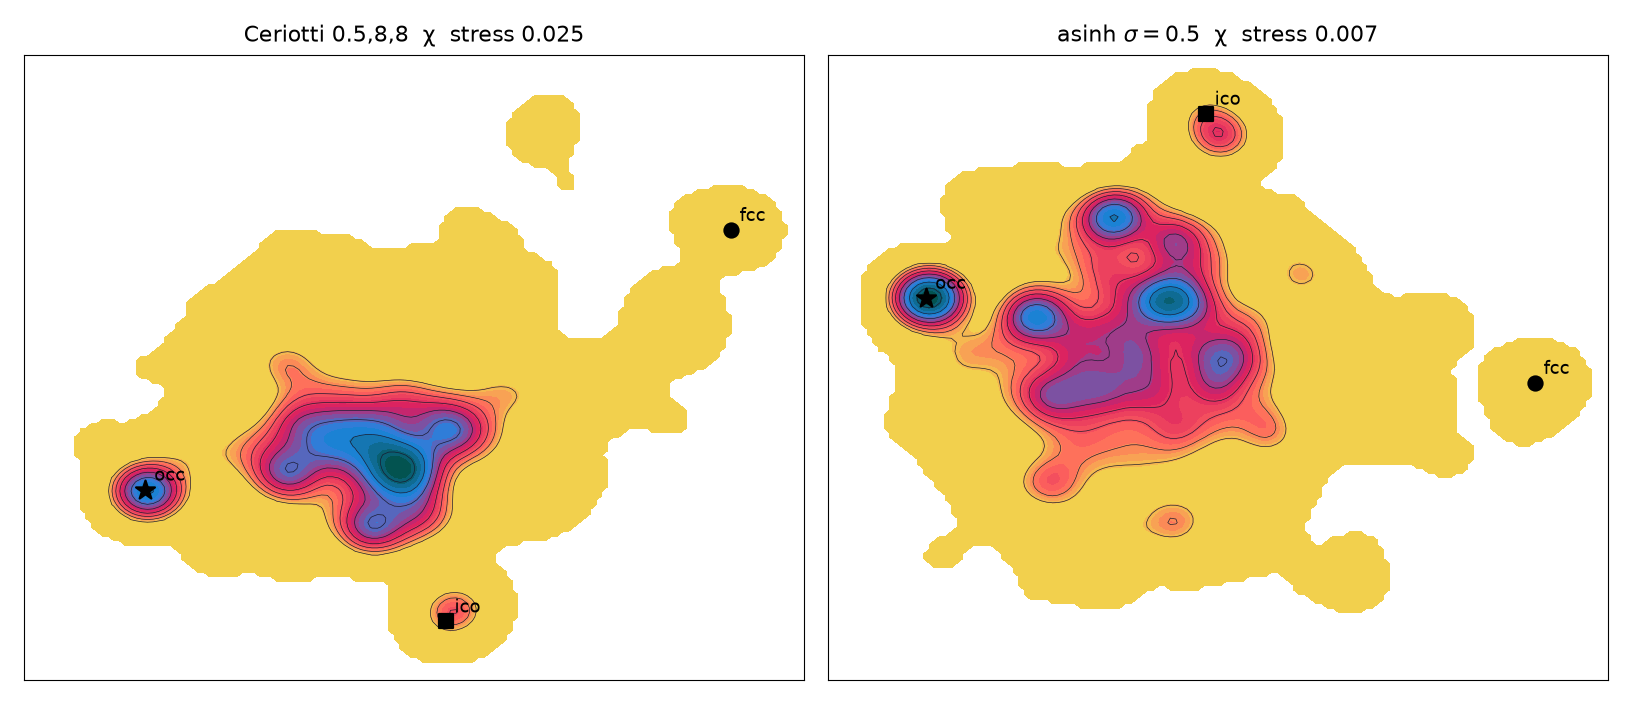
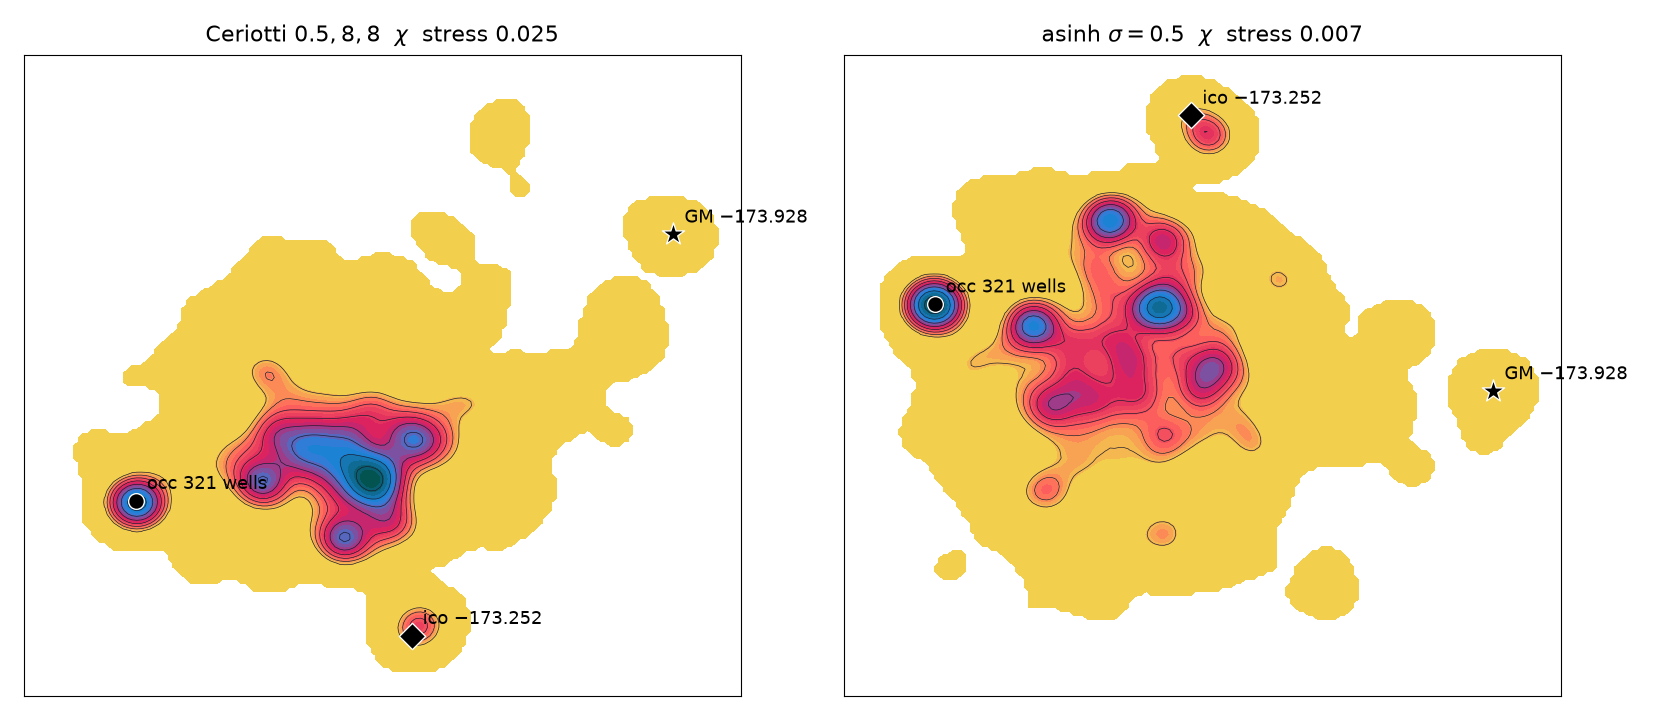
docs: mark the Wales GM and ico on the DECAF chi FES
The truncated-octahedron global minimum at -173.928 and the
incomplete Mackay icosahedron at -173.252 sit on isolated
islands. The occupied leftover-well mode is a third place.

diff --git a/scripts/occ_book_decaf_chi.py b/scripts/occ_book_decaf_chi.py
@@ -33,15 +33,16 @@ PES = LinearSegmentedColormap.from_list(
     N=256,
 )
 
-# book rows: fcc fam0, ico fam1, leftover fam147, liquid fam36
+# book rows: fcc fam0 = Wales GM, ico fam1 = second minimum
 ROW = {"fcc": 0, "ico": 1, "left": 147, "liquid": 36}
 LABELS = {
-    "fcc": "fcc",
+    "fcc": "GM fcc",
     "ico": "ico",
     "left": "other packing",
     "liquid": "liquid",
 }
-ENERGIES = {"fcc": -173.93, "ico": -173.25, "left": -170.67, "liquid": -168.05}
+# Wales / Doye catalogued energies (also the journal exact values)
+ENERGIES = {"fcc": -173.928427, "ico": -173.252378, "left": -170.67, "liquid": -168.05}
 SIDX = {"fcc": 0, "ico": 40, "left": 1393, "liquid": 3674}
 # asinh chi: fcc right, ico top, leftover left, liquid into the well
 POS = {
@@ -143,6 +144,29 @@ def main() -> None:
     cb.set_label(r"$F/kT$  leftover-well occupancy on asinh $\chi$ of DECAF $L^1$", fontsize=11)
     cb.set_ticks([0, 0.5, 1, 1.5, 2])
 
+    # known catalogued minima sit on the map, not only in the corner frames
+    for name, marker, color in (("fcc", "*", "#111111"), ("ico", "D", "#111111")):
+        tip = xy[ROW[name]]
+        ax.scatter(
+            tip[0],
+            tip[1],
+            s=90 if name == "fcc" else 55,
+            marker=marker,
+            c=color,
+            edgecolors="white",
+            linewidths=0.6,
+            zorder=6,
+        )
+        ax.annotate(
+            f"{LABELS[name]}  {ENERGIES[name]:.3f}",
+            tip,
+            textcoords="offset points",
+            xytext=(6, 6),
+            fontsize=8,
+            color="#111111",
+            zorder=7,
+        )
+
     for name, (fx, fy) in POS.items():
         j = ROW[name]
         tip = xy[j]
@@ -174,7 +198,7 @@ def main() -> None:
         hax.tick_params(labelsize=6, length=2)
         hax.set_yticks([])
         hax.set_title(
-            f"{LABELS[name]}  {ENERGIES[name]:.1f}  F={fval:.2f}",
+            f"{LABELS[name]}  {ENERGIES[name]:.3f}  F={fval:.2f}",
             fontsize=8,
             pad=2,
         )
@@ -184,6 +208,53 @@ def main() -> None:
 
     dest = OUT / "elja_occ_lj38_decaf_chi.png"
     fig.savefig(dest, dpi=170, facecolor="white")
+    print("wrote", dest)
+    write_cmp(xy, wells, cf)
+
+
+def write_cmp(xy_asinh: np.ndarray, wells: np.ndarray, cf) -> None:
+    """Ceriotti vs asinh, with the two known minima marked."""
+    cer = load_xy(Path("/tmp/occ-book/lj38_decaf_cer.ld"))
+    fig, axes = plt.subplots(1, 2, figsize=(10.4, 4.5), facecolor="white")
+    for ax, xy, title in (
+        (axes[0], cer, r"Ceriotti $0.5,8,8$  $\chi$  stress $0.025$"),
+        (axes[1], xy_asinh, r"asinh $\sigma=0.5$  $\chi$  stress $0.007$"),
+    ):
+        gx, gy, fes = kde_fes(xy, wells, cf)
+        ax.contourf(gx, gy, fes, levels=np.linspace(0, 2, 21), cmap=PES, extend="max")
+        ax.contour(
+            gx,
+            gy,
+            np.where(np.isfinite(fes), fes, np.nan),
+            levels=np.linspace(0.15, 1.85, 8),
+            colors="#1a1a2e",
+            linewidths=0.3,
+        )
+        marks = (
+            ("fcc", ROW["fcc"], "*", 110, r"GM $-173.928$"),
+            ("ico", ROW["ico"], "D", 70, r"ico $-173.252$"),
+            ("occ", 19, "o", 50, r"occ $321$ wells"),
+        )
+        for _name, j, marker, size, lab in marks:
+            ax.scatter(
+                xy[j, 0],
+                xy[j, 1],
+                s=size,
+                marker=marker,
+                c="k",
+                edgecolors="white",
+                linewidths=0.6,
+                zorder=6,
+            )
+            ax.annotate(lab, xy[j], textcoords="offset points", xytext=(5, 5), fontsize=8)
+        ax.set_xticks([])
+        ax.set_yticks([])
+        ax.set_title(title, fontsize=10)
+        for spine in ax.spines.values():
+            spine.set_linewidth(0.5)
+    fig.tight_layout()
+    dest = OUT / "elja_occ_lj38_decaf_chi_cmp.png"
+    fig.savefig(dest, dpi=160, facecolor="white")
     print("wrote", dest)
 
 
